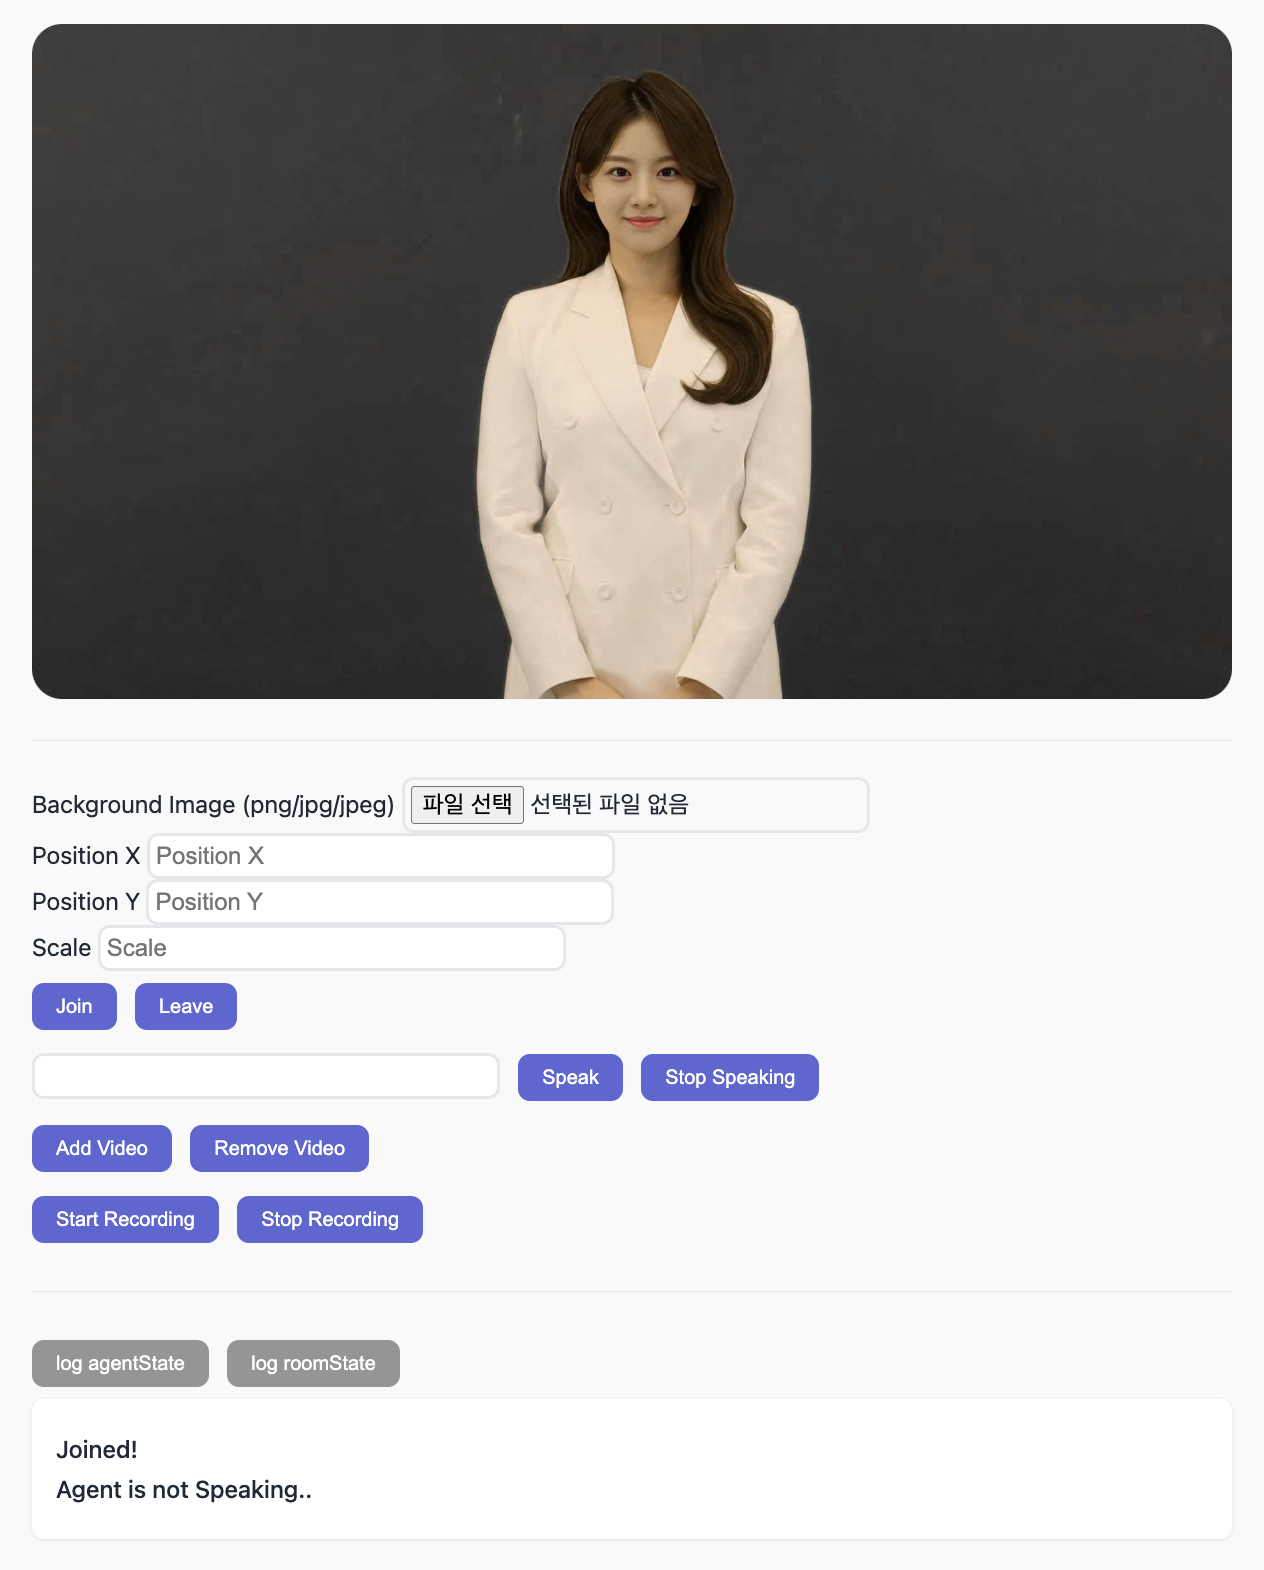
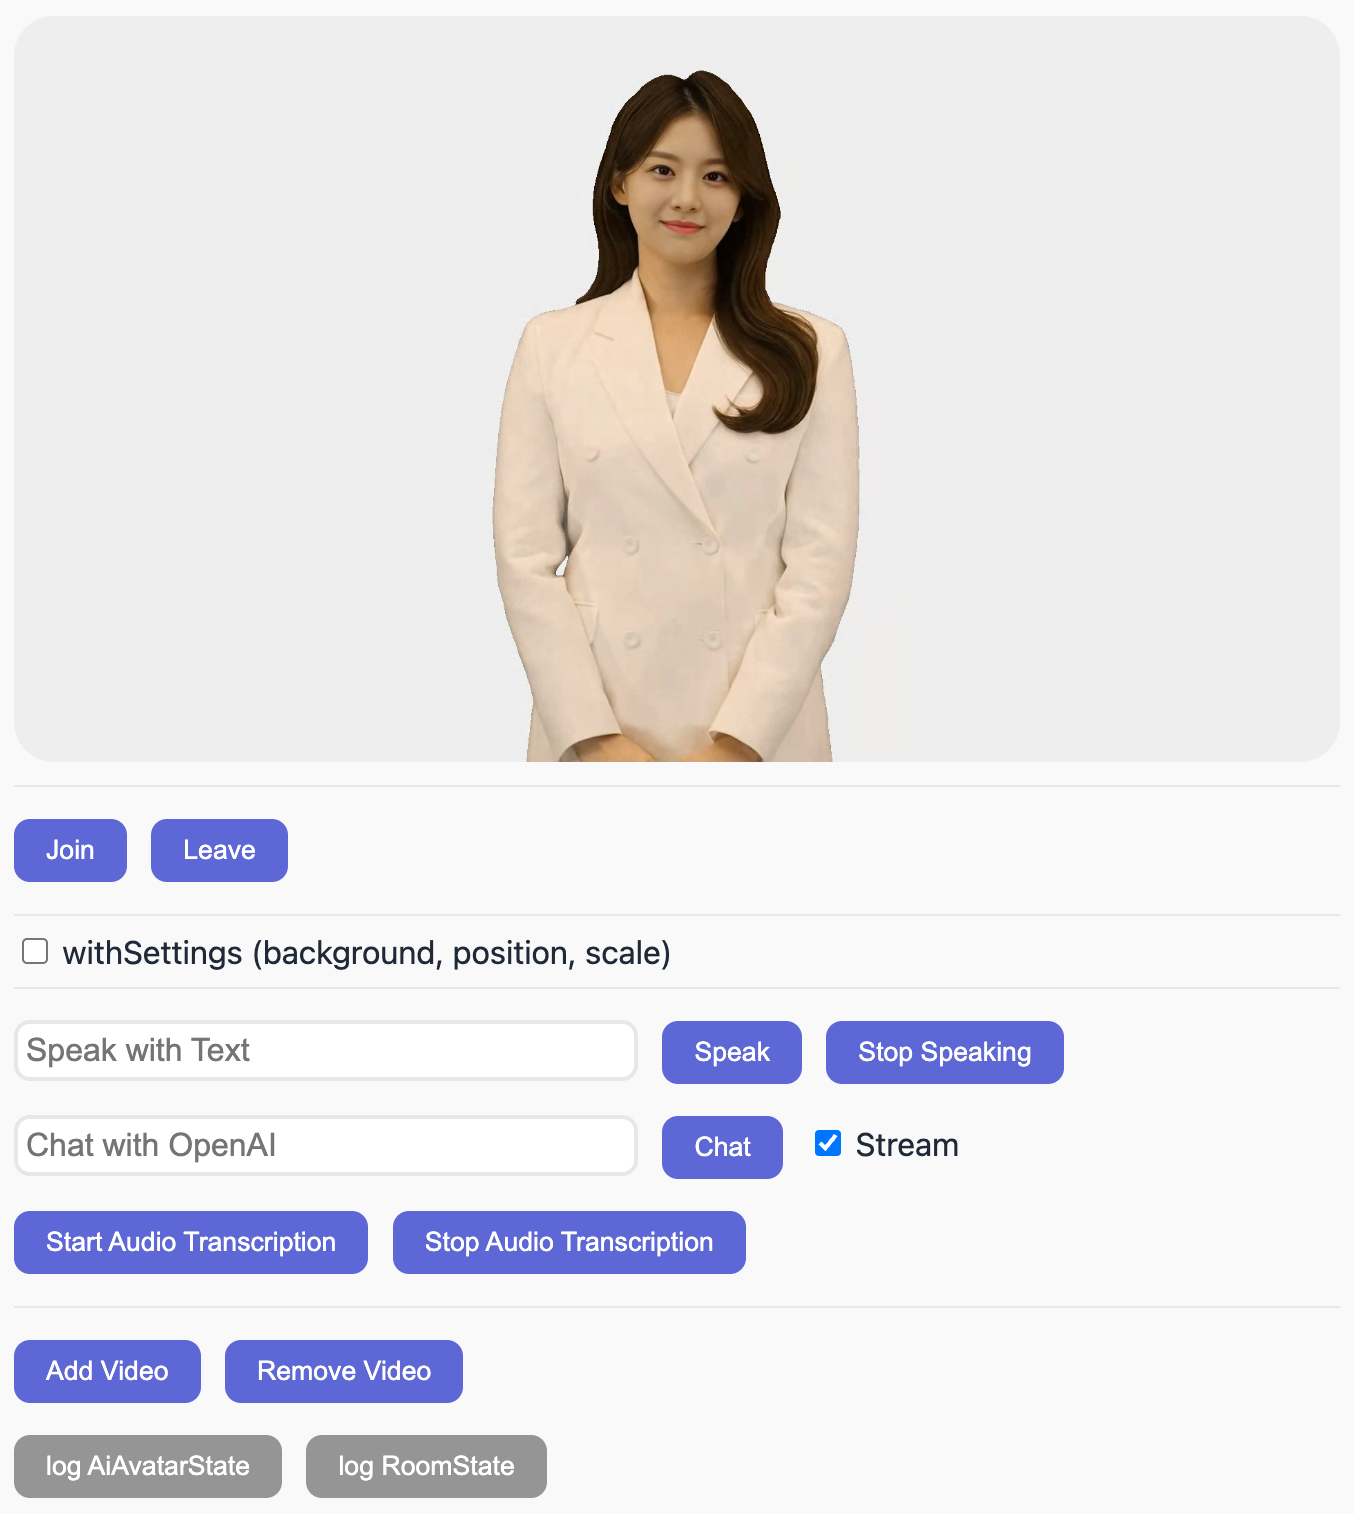
fix: update env, readme, screenshot

diff --git a/README.md b/README.md
@@ -2,19 +2,20 @@
 
 This project is a basic Vanilla Javascript demo using the `vmonster-streaming-js` library.
 
-![initialize-demo](./public/screenshot-initialize-demo.png)
 ![demo](./public/screenshot-demo.png)
 
 ## Features
 
-This demo implements the following features using vmonsterRoom:
-[vmonsterRoom-KOR](https://docs.vmonster.io/undefined/real-time-streaming-sdk/vmonsterRoom)
-[vmonsterRoom-ENG](https://docs.vmonster.io/english/real-time-streaming-sdk/vmonsterRoom)
+This demo implements the following features using VmonsterRoom:
+[Official Document (Korean)](https://docs.vmonster.io/undefined/real-time-streaming-sdk/vmonsterRoom)
+[Official Document (English)](https://docs.vmonster.io/english/real-time-streaming-sdk/vmonsterRoom)
 
 - Join/Leave Vmonster Streaming stream
-- Request agent to speak text
+- Request AI Avatar to speak text
+- Chat with AI Avatar using OpenAI API (text, text stream)
 - Stop agent speaking
 - Add/Remove agent video
+- STT (Speech-to-Text)
 - Set background / position / scale
 
 ## Getting Started
